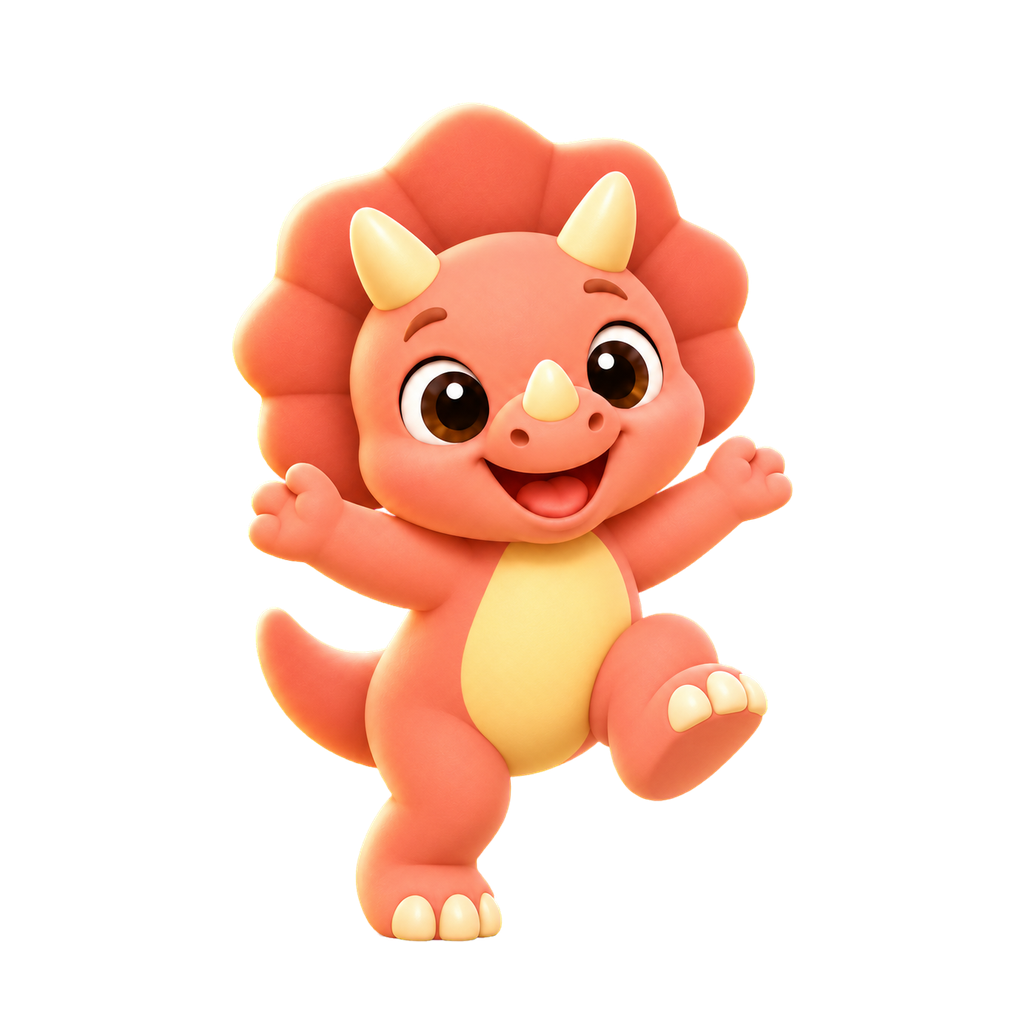
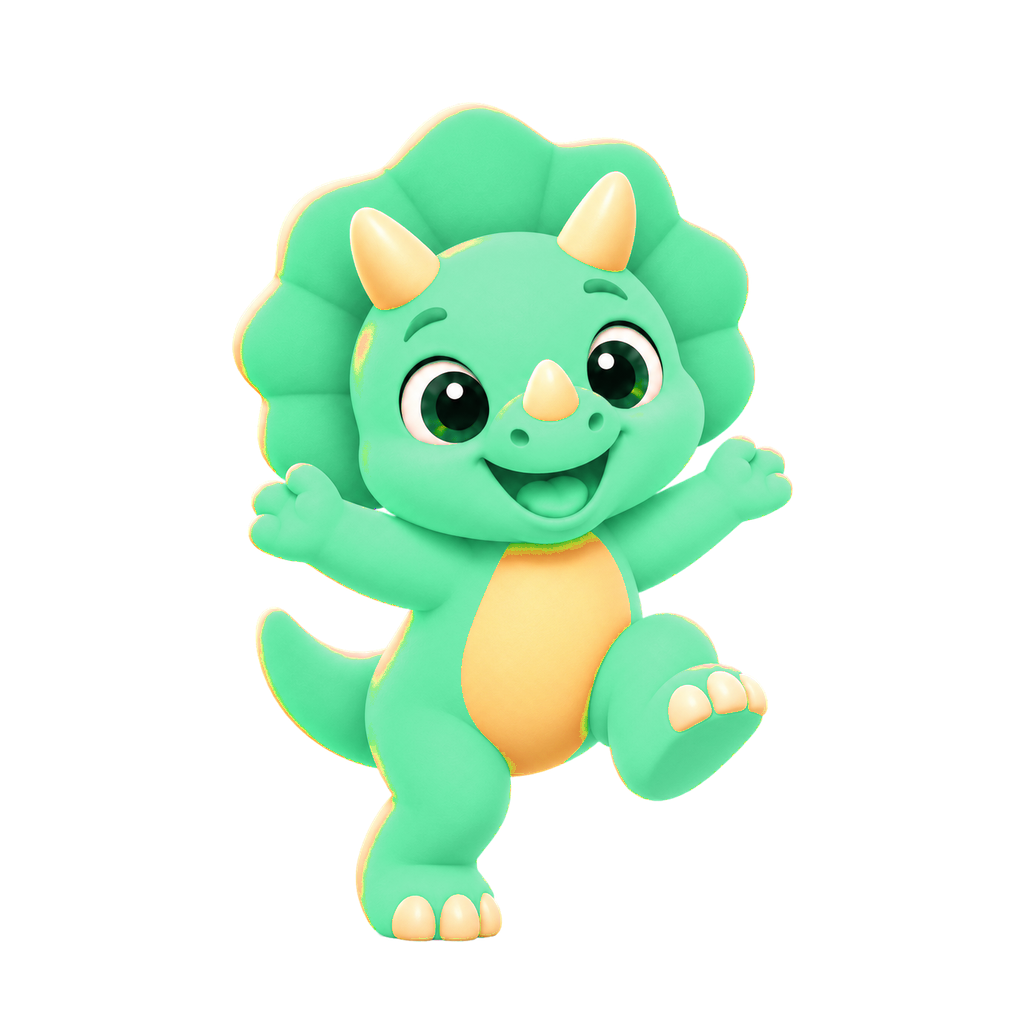
Mein Körper: Printatops auf den Körper-Bildern grün umgefärbt (war orange), Trefferpunkte und Puzzlegrössen an Hermes' Figur angepasst
Claude-Session: https://claude.ai/code/session_01BcXaihLCw7pC1xrHupJZB2

Changed region(s): [[0.2188, 0.0938, 0.7812, 0.9375]]

diff --git a/EllieInsel/Games/Body/BodyCatalog.swift b/EllieInsel/Games/Body/BodyCatalog.swift
@@ -168,11 +168,11 @@ enum BodyPart: String, Codable, CaseIterable, Identifiable {
     /// Trefferpunkte auf der Figur (paarige Teile haben zwei).
     var spots: [CGPoint] {
         switch self {
-        case .kopf: return [CGPoint(x: 0.5, y: 0.13)]
-        case .bauch: return [CGPoint(x: 0.5, y: 0.49)]
-        case .hand: return [CGPoint(x: 0.2, y: 0.57), CGPoint(x: 0.8, y: 0.57)]
+        case .kopf: return [CGPoint(x: 0.5, y: 0.14)]
+        case .bauch: return [CGPoint(x: 0.5, y: 0.47)]
+        case .hand: return [CGPoint(x: 0.18, y: 0.58), CGPoint(x: 0.82, y: 0.58)]
         case .fuss: return [CGPoint(x: 0.42, y: 0.95), CGPoint(x: 0.58, y: 0.95)]
-        case .arm: return [CGPoint(x: 0.27, y: 0.43), CGPoint(x: 0.73, y: 0.43)]
+        case .arm: return [CGPoint(x: 0.25, y: 0.43), CGPoint(x: 0.75, y: 0.43)]
         case .bein: return [CGPoint(x: 0.43, y: 0.8), CGPoint(x: 0.57, y: 0.8)]
         case .knie: return [CGPoint(x: 0.43, y: 0.73), CGPoint(x: 0.57, y: 0.73)]
         case .augen: return [CGPoint(x: 0.45, y: 0.14), CGPoint(x: 0.55, y: 0.14)]
@@ -184,12 +184,12 @@ enum BodyPart: String, Codable, CaseIterable, Identifiable {
         case .lunge: return [CGPoint(x: 0.44, y: 0.36), CGPoint(x: 0.575, y: 0.35)]
         case .magen: return [CGPoint(x: 0.545, y: 0.45)]
         case .darm: return [CGPoint(x: 0.5, y: 0.53)]
-        case .schaedel: return [CGPoint(x: 0.5, y: 0.11)]
+        case .schaedel: return [CGPoint(x: 0.5, y: 0.12)]
         case .rippen: return [CGPoint(x: 0.44, y: 0.38), CGPoint(x: 0.56, y: 0.38)]
-        case .wirbelsaeule: return [CGPoint(x: 0.5, y: 0.31), CGPoint(x: 0.5, y: 0.47)]
-        case .oberschenkel: return [CGPoint(x: 0.44, y: 0.66), CGPoint(x: 0.56, y: 0.66)]
-        case .adern: return [CGPoint(x: 0.27, y: 0.46), CGPoint(x: 0.73, y: 0.46), CGPoint(x: 0.44, y: 0.8), CGPoint(x: 0.56, y: 0.8)]
-        case .muskeln: return [CGPoint(x: 0.28, y: 0.4), CGPoint(x: 0.72, y: 0.4), CGPoint(x: 0.43, y: 0.66), CGPoint(x: 0.57, y: 0.66)]
+        case .wirbelsaeule: return [CGPoint(x: 0.5, y: 0.47), CGPoint(x: 0.5, y: 0.52)]
+        case .oberschenkel: return [CGPoint(x: 0.44, y: 0.65), CGPoint(x: 0.56, y: 0.65)]
+        case .adern: return [CGPoint(x: 0.25, y: 0.46), CGPoint(x: 0.75, y: 0.46), CGPoint(x: 0.44, y: 0.8), CGPoint(x: 0.56, y: 0.8)]
+        case .muskeln: return [CGPoint(x: 0.26, y: 0.42), CGPoint(x: 0.74, y: 0.42), CGPoint(x: 0.43, y: 0.66), CGPoint(x: 0.57, y: 0.66)]
         }
     }
 
@@ -326,10 +326,10 @@ enum BodyPart: String, Codable, CaseIterable, Identifiable {
     /// Grösse des Teils, wenn es im Puzzle in die Figur gelegt wird (Anteil der Figurenhöhe).
     var puzzleSize: Double {
         switch self {
-        case .gehirn: return 0.11
-        case .lunge: return 0.17
-        case .herz: return 0.075
-        case .magen: return 0.09
+        case .gehirn: return 0.17
+        case .lunge: return 0.24
+        case .herz: return 0.07
+        case .magen: return 0.1
         case .darm: return 0.13
         default: return 0.1
         }
